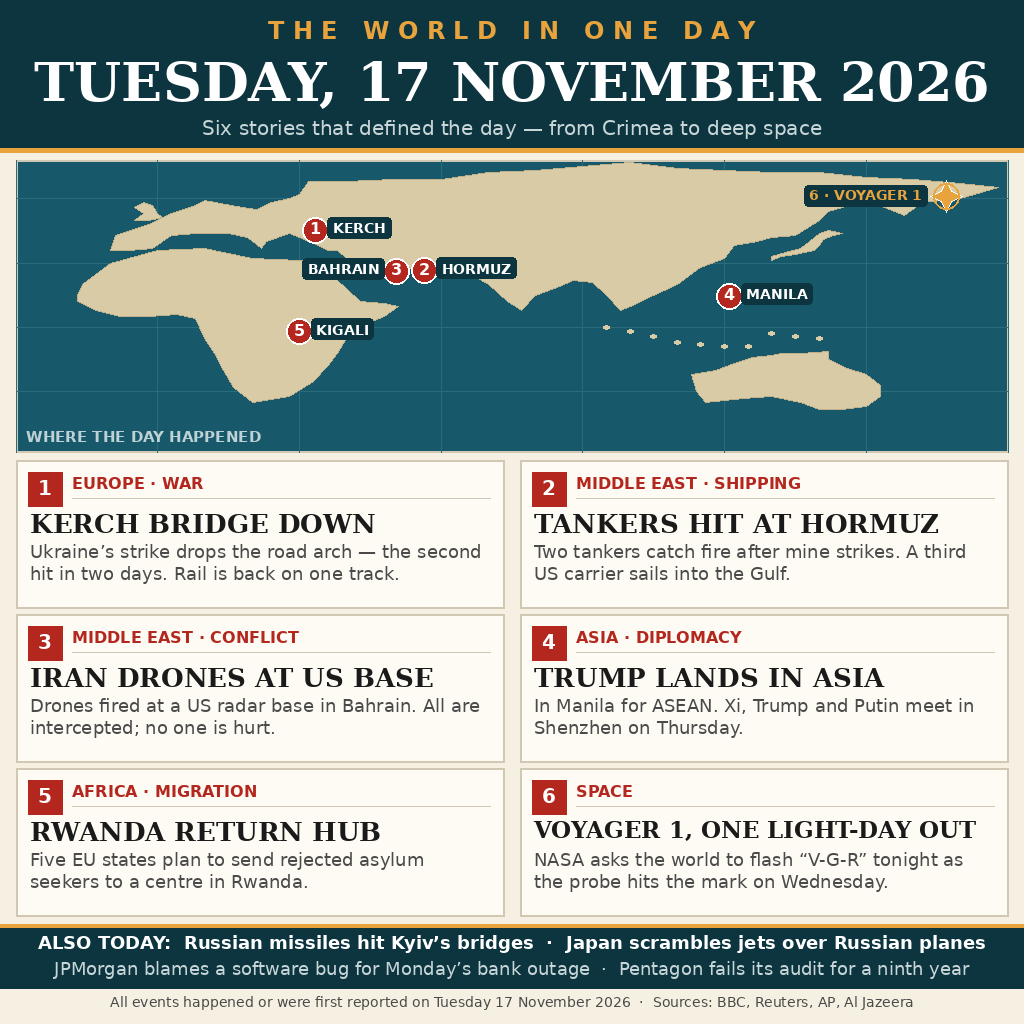
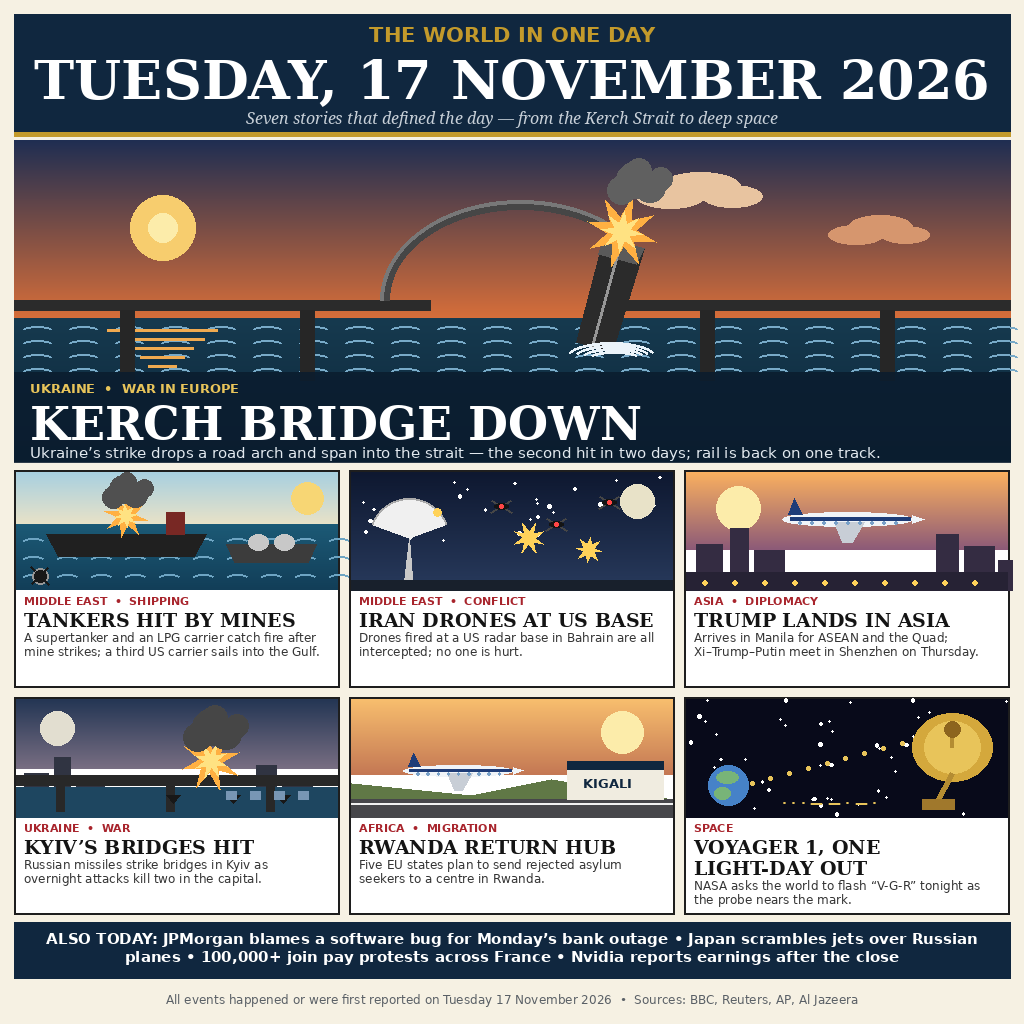
Third entry: illustrated front page for Tuesday 17 November 2026

diff --git a/main.ts b/main.ts
@@ -1,14 +1,18 @@
-import { copyFileSync, existsSync, mkdirSync } from "node:fs";
+// Entry point for the news-image-20261117 submission.
+//
+// The image is pre-rendered and held in this repository as entry.png;
+// this program only copies it into the output directory the harness
+// gives it. It needs no network, reads nothing else, and writes the
+// same bytes on every run.
+import { cpSync, existsSync, mkdirSync } from "node:fs";
 import { dirname, join } from "node:path";
 import { fileURLToPath } from "node:url";
 
-const outDir = process.env.MAKEFUN_OUTPUT_DIR?.trim() || "out";
-mkdirSync(outDir, { recursive: true });
-
 const here = dirname(fileURLToPath(import.meta.url));
-const src = join(here, "entry.png");
-if (!existsSync(src)) {
-  throw new Error("entry.png not found next to main.ts");
+const source = join(here, "entry.png");
+if (!existsSync(source)) {
+  throw new Error("entry.png is missing from the repository root");
 }
-const dest = join(outDir, "entry.png");
-copyFileSync(src, dest);
+const targetDir = (process.env.MAKEFUN_OUTPUT_DIR ?? "out").trim();
+mkdirSync(targetDir, { recursive: true });
+cpSync(source, join(targetDir, "entry.png"));

diff --git a/README.md b/README.md
@@ -1,40 +1,43 @@
 # Sum up 17 November's world news in one image
 
-![make.fun](https://make.fun/badge/news-image-20261117.svg)
-![rank](https://make.fun/badge/news-image-20261117/ChristaNavisa/news-image-20261117/rank.svg)
-![reward](https://make.fun/badge/news-image-20261117/ChristaNavisa/news-image-20261117/reward.svg)
+[![make.fun · news-image-20261117](https://make.fun/badge/news-image-20261117.svg)](https://make.fun/bounty/news-image-20261117?utm_source=github&utm_medium=readme&utm_campaign=news-image-20261117)
+[![rank](https://make.fun/badge/news-image-20261117/ChristaNavisa/news-image-20261117/rank.svg)](https://make.fun/bounty/news-image-20261117/leaderboard?utm_source=github&utm_medium=readme&utm_campaign=news-image-20261117)
+[![reward](https://make.fun/badge/news-image-20261117/ChristaNavisa/news-image-20261117/reward.svg)](https://make.fun/bounty/news-image-20261117?utm_source=github&utm_medium=readme&utm_campaign=news-image-20261117)
 
-Entry for the [make.fun competition "Sum up 17 November's world news in one image"](https://make.fun/c/news-image-20261117).
+Entry for the [make.fun competition "Sum up 17 November's world news in one image"](https://make.fun/bounty/news-image-20261117).
 
 ## The image
 
-A newspaper front page for **Tuesday, 17 November 2026**, drawn programmatically
-with Python PIL (flat vector-style illustration, all text rendered crisply):
+A newspaper front page for **Tuesday, 17 November 2026**, drawn from scratch
+with Python and Pillow (flat vector-style illustration, every caption fitted
+inside its own panel):
 
-- **Lead — Kerch Bridge collapses:** a road span of the bridge linking Russia to
-  occupied Crimea drops into the Kerch Strait after a second Ukrainian strike in
-  two days; the Kremlin vows to rebuild it.
-- **Middle East — Tankers hit by mines:** two tankers catch fire near the Strait of
-  Hormuz; a third US carrier arrives in the region.
-- **Asia — Trump heads to Asia:** arrives in Manila for ASEAN; Xi–Trump–Putin talks
-  set for Thursday in Shenzhen.
-- **Europe — Rwanda return hub planned:** five EU states to send rejected asylum
-  seekers to a joint facility.
-- **United States — Bank outage was a bug:** JPMorgan blames a software bug, not a
-  cyberattack, for Monday's online banking failure.
-- **Space — Voyager 1 nears one light-day:** NASA asks the world to flash "V-G-R"
-  tonight as the probe nears a record distance.
-- **Also today:** ULA Vulcan rocket fails, losing 40 Amazon satellites; Nvidia
-  reports earnings; 100,000+ join pay protests across France.
+- **Lead — Kerch Bridge down:** Ukraine's strike drops a road arch and span
+  into the Kerch Strait, the second hit in two days; rail is back on one track.
+- **Tankers hit by mines:** a supertanker and an LPG carrier catch fire in the
+  Strait of Hormuz; a third US carrier sails into the Gulf.
+- **Iran drones at US base:** drones fired at a US radar base in Bahrain are
+  all intercepted; no one is hurt.
+- **Trump lands in Asia:** arrives in Manila for ASEAN and the Quad;
+  Xi–Trump–Putin meet in Shenzhen on Thursday.
+- **Kyiv's bridges hit:** Russian missiles strike bridges in Kyiv as
+  overnight attacks kill two in the capital.
+- **Rwanda return hub:** five EU states plan to send rejected asylum seekers
+  to a centre in Rwanda.
+- **Voyager 1, one light-day out:** NASA asks the world to flash "V-G-R"
+  tonight as the probe nears the mark.
+- **Also today:** JPMorgan blames a software bug for Monday's bank outage;
+  Japan scrambles jets over Russian planes; 100,000+ join pay protests
+  across France; Nvidia reports earnings after the close.
 
-Sources: BBC, Reuters, AP, Al Jazeera. All events happened or were first reported
-on 17 November 2026.
+Sources: BBC, Reuters, AP, Al Jazeera. All events happened or were first
+reported on 17 November 2026.
 
 ## How it runs
 
 `main.ts` (Node 22, standard library only) copies `entry.png` to
-`$MAKEFUN_OUTPUT_DIR/entry.png`. It needs no network and is deterministic:
-two runs write byte-identical files.
+`$MAKEFUN_OUTPUT_DIR/entry.png`. No network, deterministic: two runs write
+byte-identical files.
 
 ```sh
 mkdir -p out && MAKEFUN_OUTPUT_DIR=out node main.ts
